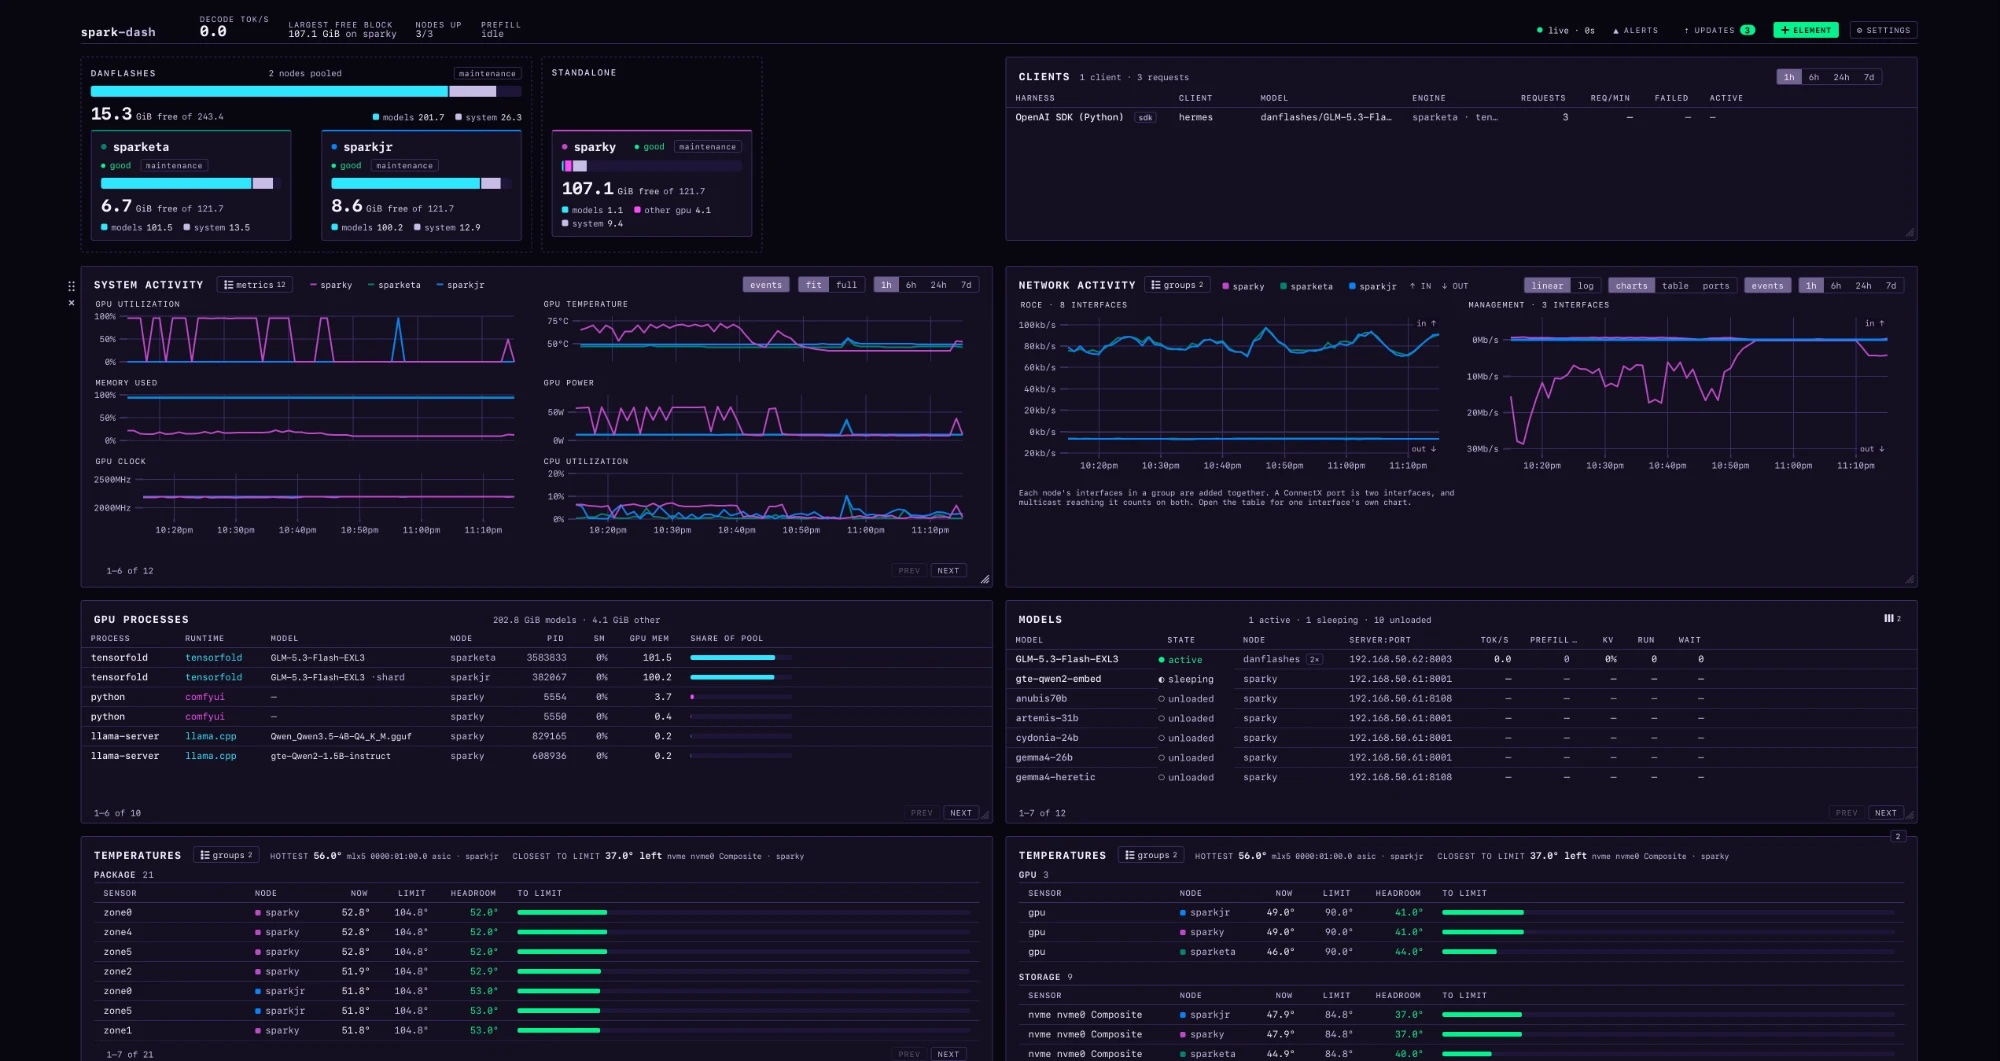
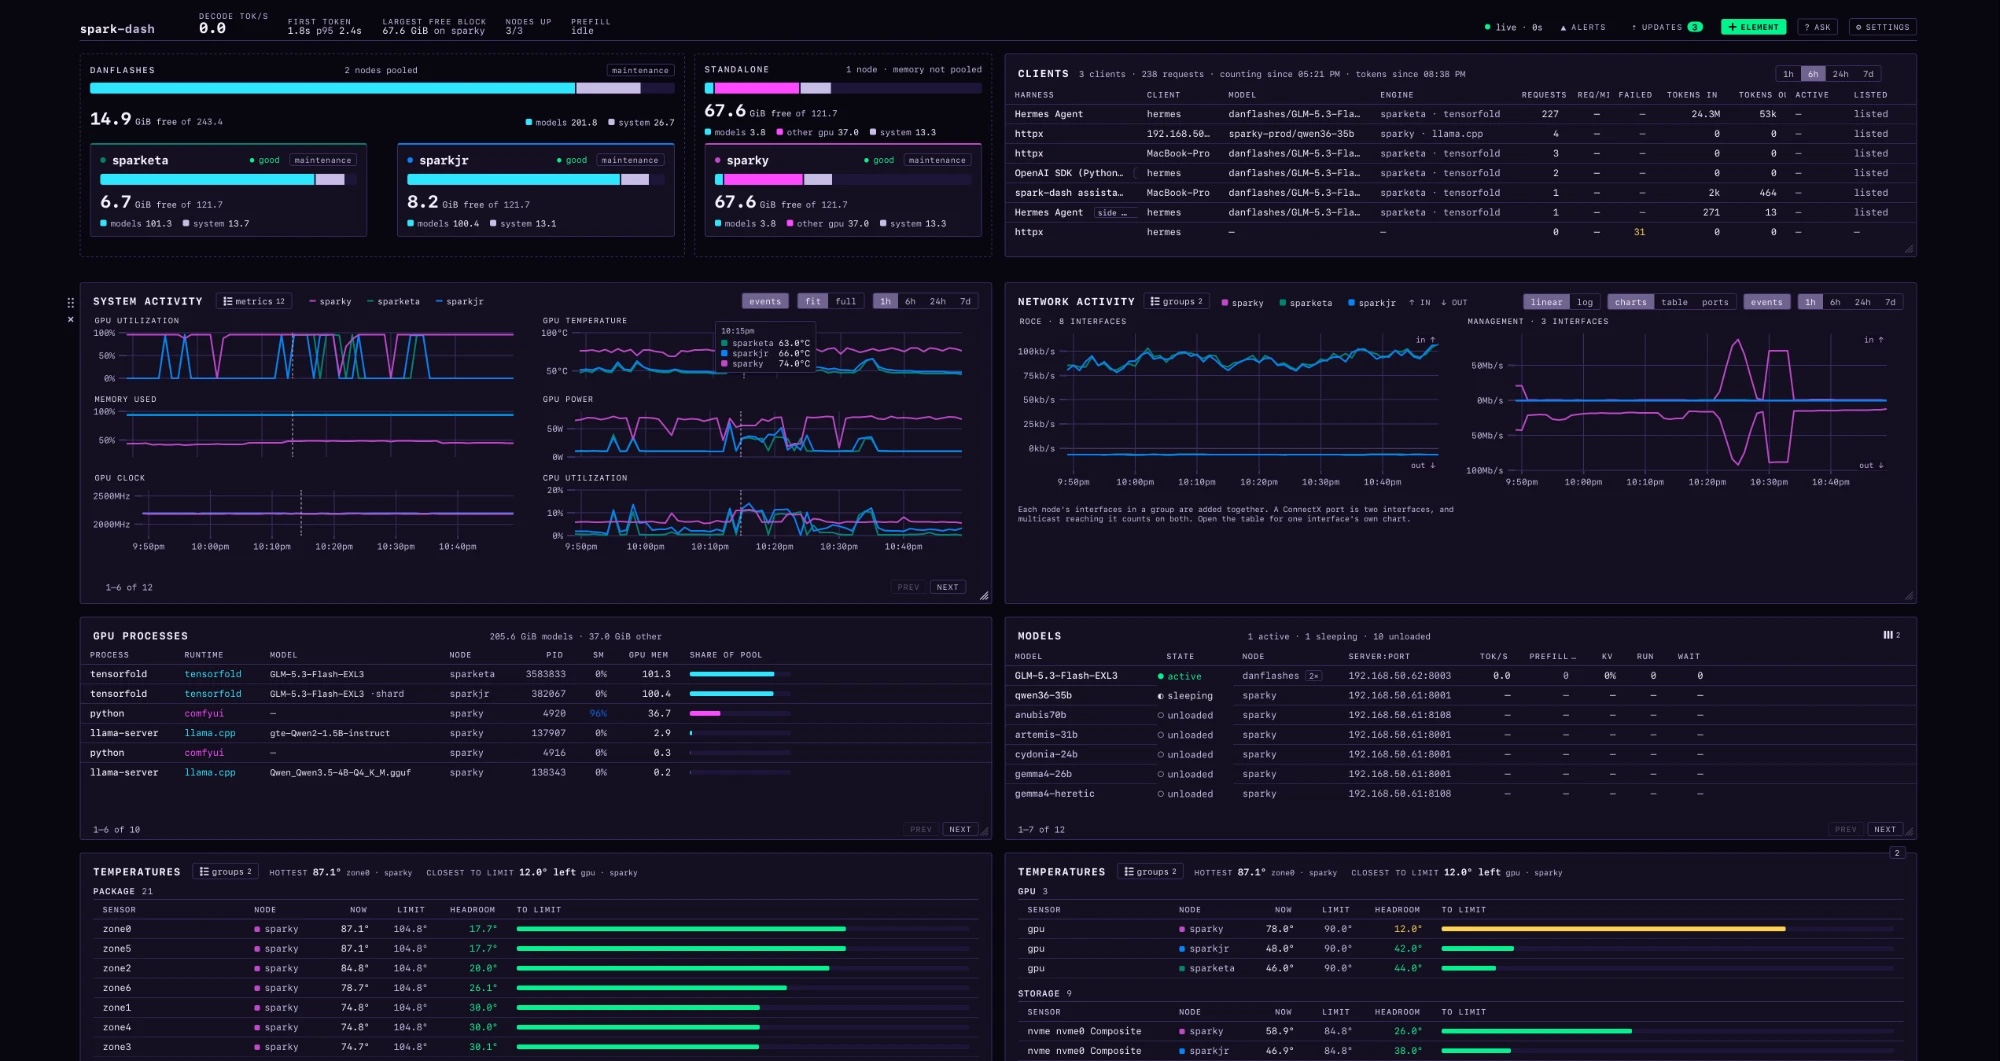
README: new screenshot; tokens per client, asking the dashboard, level frames
Claude-Session: https://claude.ai/code/session_01Y6ZW58VVbXzATkbvtzkrg2

diff --git a/README.md b/README.md
@@ -6,7 +6,7 @@ running on them (llama.cpp router, vLLM, SGLang, TensorFold).
 
 Works with one node or many.
 
-![The spark-dash dashboard in compact view: a pooled two-node cluster and a standalone node in their own frames, with the Clients card beside them; System Activity charting a metric per chart and a line per node; Network Activity charting RoCE and management traffic with each node's received traffic above the line and sent below; the GPU process and model tables; and two Temperatures cards, each showing different sensor groups](Screenshot.jpg)
+![The spark-dash dashboard in compact view: a pooled two-node cluster and a standalone node in their own frames, ending level with the Clients card beside them, which lists seven callers with their requests and tokens; an ask button in the header; System Activity charting a metric per chart and a line per node; Network Activity charting RoCE and management traffic with each node's received traffic above the line and sent below; the GPU process and model tables; and two Temperatures cards, each showing different sensor groups](Screenshot.jpg)
 
 Three GB10s: two pooled into a tensor-parallel cluster, one standalone. Every
 threshold is measured for this hardware, not guessed, and the layout is
@@ -108,8 +108,18 @@ somebody pressed.
 **Optionally, who is calling.** The engines count requests and never record the
 caller. Put a [LiteLLM](https://docs.litellm.ai/docs/simple_proxy) proxy in
 front of them and a Clients card shows which harness, on which machine, sent
-how many requests to which model on which node, and how many failed. An agent
-that sends an SDK's default User-Agent is still named, by its machine.
+how many requests to which model on which node, how many failed, and the
+tokens in and out. An agent that sends an SDK's default User-Agent is still
+named, by its machine.
+
+**Optionally, ask it.** Connect any model you run, or one behind the gateway,
+and an **ask** button takes questions about the cluster's history: "why was
+sparky slow at 9pm?", "which node ran hottest?", "who has been using the
+cluster most?". It answers from what the dashboard already holds for the
+window you pick: alerts, events, how each chart moved and when it peaked, and
+who called. Asked which node ran hottest, GLM-5.3-Flash named sparkjr's
+96.4°C at 15:21 and the alert that caught it, in under six seconds. The model
+is told about the cluster and can't act on it.
 
 ## The page is yours
 
@@ -132,7 +142,8 @@ nothing is configured on the server.
   on one grid at the same width, each cluster and each standalone node in its
   own frame. When the frames fit in half the page, as on a wide monitor, the
   right half becomes a column like the ones below: drag a half-width card into
-  it.
+  it. A single row of frames spreads to fill its half, and stretches to end
+  level with a taller card beside it.
 - **Seven themes**, dark instrument panel through to paper and high contrast.
   **Reset layout** puts it all back.
 
